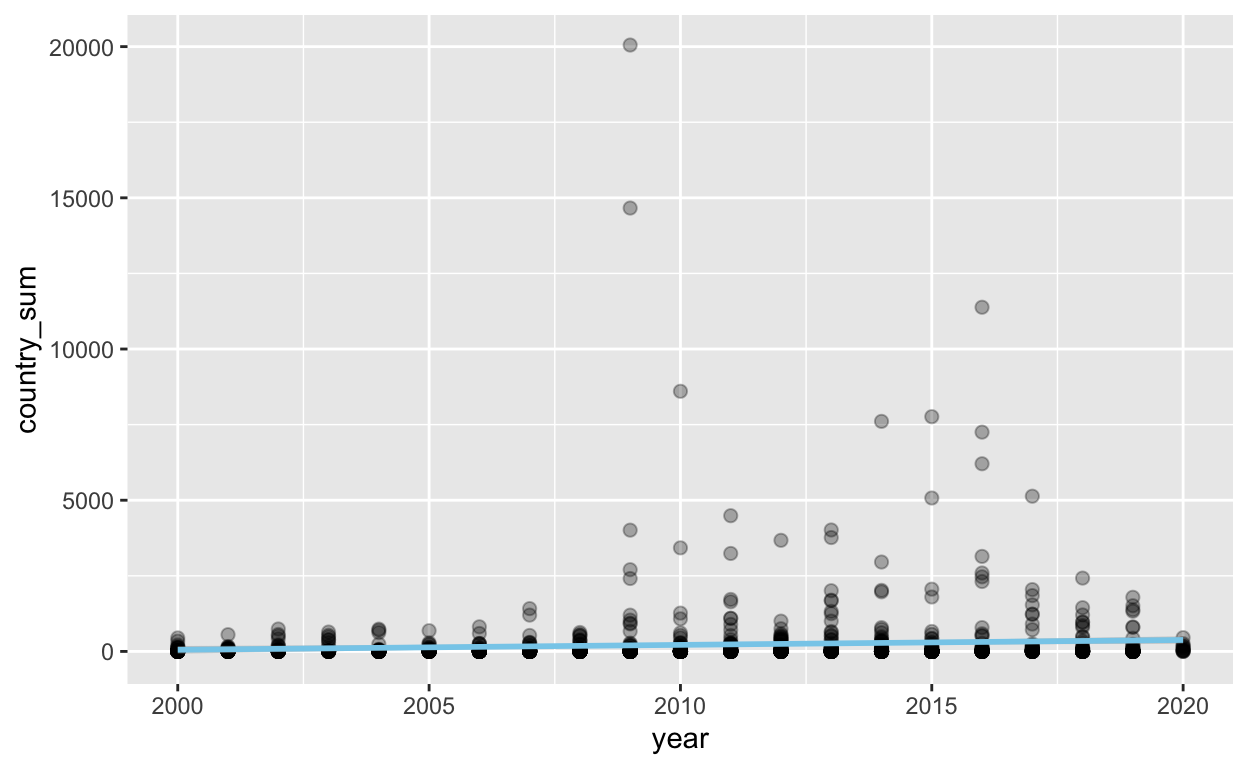
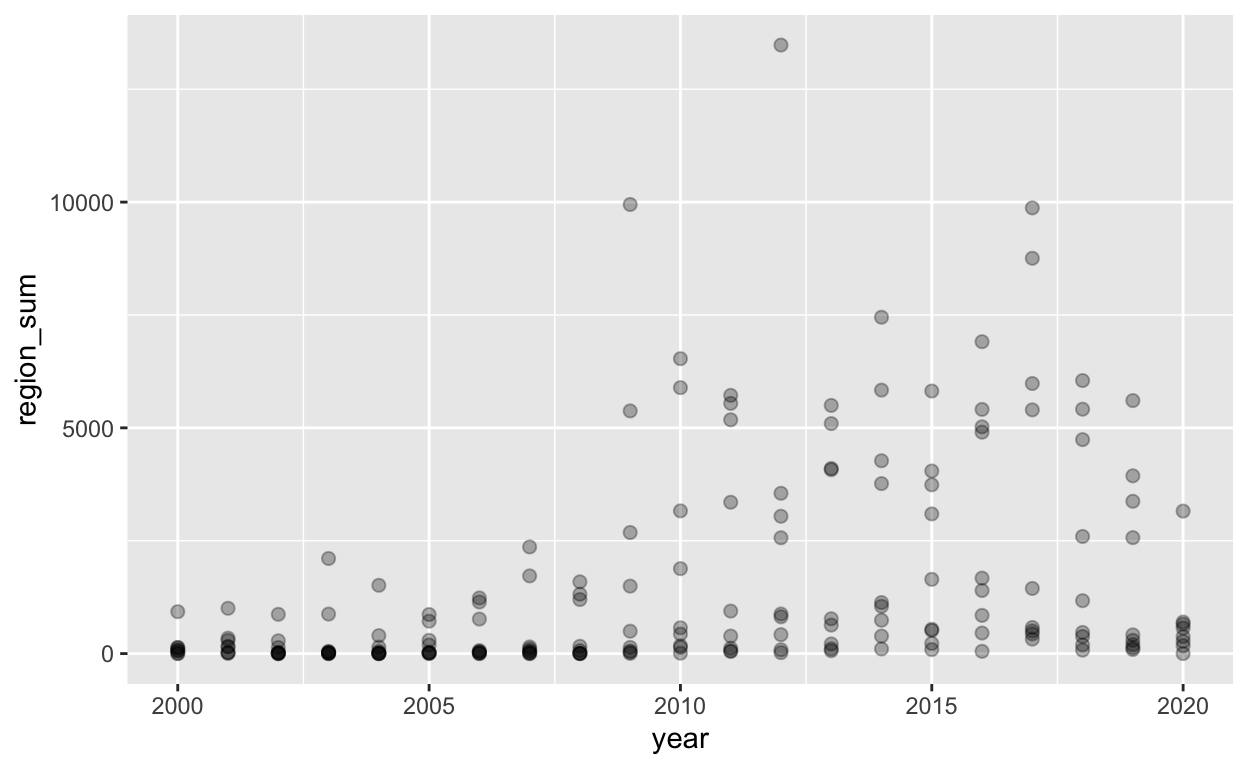
Made good progress but the plots are messing things up, need to figure out how to plot lm models

diff --git a/_posts/2021-11-23-detecting-trends-in-renewable-energy-investment/detecting-trends-in-renewable-energy-investment.html b/_posts/2021-11-23-detecting-trends-in-renewable-energy-investment/detecting-trends-in-renewable-energy-investment.html
@@ -116,7 +116,7 @@ code span.wa { color: #5e5e5e; font-style: italic; } /* Warning */
   <!--/radix_placeholder_rmarkdown_metadata-->
   
   <script type="text/json" id="radix-resource-manifest">
-  {"type":"character","attributes":{},"value":["data/IRENA_RE_Public_Investment_July2021.xlsx","detecting-trends-in-renewable-energy-investment_files/anchor-4.2.2/anchor.min.js","detecting-trends-in-renewable-energy-investment_files/bowser-1.9.3/bowser.min.js","detecting-trends-in-renewable-energy-investment_files/distill-2.2.21/template.v2.js","detecting-trends-in-renewable-energy-investment_files/figure-html5/unnamed-chunk-10-1.png","detecting-trends-in-renewable-energy-investment_files/figure-html5/unnamed-chunk-11-1.png","detecting-trends-in-renewable-energy-investment_files/figure-html5/unnamed-chunk-12-1.png","detecting-trends-in-renewable-energy-investment_files/figure-html5/unnamed-chunk-5-1.png","detecting-trends-in-renewable-energy-investment_files/header-attrs-2.10/header-attrs.js","detecting-trends-in-renewable-energy-investment_files/jquery-1.11.3/jquery.min.js","detecting-trends-in-renewable-energy-investment_files/popper-2.6.0/popper.min.js","detecting-trends-in-renewable-energy-investment_files/tippy-6.2.7/tippy-bundle.umd.min.js","detecting-trends-in-renewable-energy-investment_files/tippy-6.2.7/tippy-light-border.css","detecting-trends-in-renewable-energy-investment_files/tippy-6.2.7/tippy.css","detecting-trends-in-renewable-energy-investment_files/tippy-6.2.7/tippy.umd.min.js","detecting-trends-in-renewable-energy-investment_files/webcomponents-2.0.0/webcomponents.js"]}
+  {"type":"character","attributes":{},"value":["data/IRENA_RE_Public_Investment_July2021.xlsx","detecting-trends-in-renewable-energy-investment_files/anchor-4.2.2/anchor.min.js","detecting-trends-in-renewable-energy-investment_files/bowser-1.9.3/bowser.min.js","detecting-trends-in-renewable-energy-investment_files/distill-2.2.21/template.v2.js","detecting-trends-in-renewable-energy-investment_files/figure-html5/unnamed-chunk-10-1.png","detecting-trends-in-renewable-energy-investment_files/figure-html5/unnamed-chunk-11-1.png","detecting-trends-in-renewable-energy-investment_files/figure-html5/unnamed-chunk-12-1.png","detecting-trends-in-renewable-energy-investment_files/figure-html5/unnamed-chunk-13-1.png","detecting-trends-in-renewable-energy-investment_files/figure-html5/unnamed-chunk-5-1.png","detecting-trends-in-renewable-energy-investment_files/figure-html5/unnamed-chunk-8-1.png","detecting-trends-in-renewable-energy-investment_files/header-attrs-2.10/header-attrs.js","detecting-trends-in-renewable-energy-investment_files/jquery-1.11.3/jquery.min.js","detecting-trends-in-renewable-energy-investment_files/popper-2.6.0/popper.min.js","detecting-trends-in-renewable-energy-investment_files/tippy-6.2.7/tippy-bundle.umd.min.js","detecting-trends-in-renewable-energy-investment_files/tippy-6.2.7/tippy-light-border.css","detecting-trends-in-renewable-energy-investment_files/tippy-6.2.7/tippy.css","detecting-trends-in-renewable-energy-investment_files/tippy-6.2.7/tippy.umd.min.js","detecting-trends-in-renewable-energy-investment_files/webcomponents-2.0.0/webcomponents.js"]}
   </script>
   <!--radix_placeholder_navigation_in_header-->
   <!--/radix_placeholder_navigation_in_header-->
@@ -1523,32 +1523,35 @@ Residual standard error: 2167 on 184 degrees of freedom
 Multiple R-squared:  0.1341,    Adjusted R-squared:  0.1294 
 F-statistic:  28.5 on 1 and 184 DF,  p-value: 2.735e-07</code></pre>
 </div>
-<p>Using the <code>summary()</code> function, we can quickly get some insights from our model. From this output we are most concerned with the coefficient estimate of the year, which is 141.88 million USD. This tells us that, according to this model, with each passing year we are seeing a increase in renewable investment by 1.4188086^{8} USD by each country per year. Overall this is a positive trend for renewable investments year over year by each country.</p>
-<p>From the <code>summary()</code> function we are also able to get a p-value for the trend coefficient. The p-value is represented in the “Coefficients” section of the table under “Pr(&gt;|t|)”. The year coefficient has a p-value below <strong>0.001</strong> which gives us confidence in rejecting a null hypothesis that there is no relationship between investment sums across time with a confidence interval of 0.05. It should be noted that our R-squared value is low for this model <strong>(0.01)</strong> however that is not important for this analysis as we are not focused on predicting outcomes of investment with high precision, but rather the overall trend from the year coefficient and its’ associated p-value.</p>
+<p>Using the <code>summary()</code> function, we can quickly get some insights from our model. From this output we are most concerned with the coefficient estimate of the year, which is 141.88 million USD. This tells us that, according to this model, with each passing year we are seeing a increase in renewable investment by more than 141,000,000 USD across each region per year. Overall this is a positive trend for renewable investments year over year.</p>
+<p>From the <code>summary()</code> function we are also able to get a p-value for the trend coefficient. The p-value is represented in the “Coefficients” section of the table under “Pr(&gt;|t|)”. The year coefficient has a p-value below 0.001 which gives us confidence in rejecting a null hypothesis that there is no relationship between investment sums across time with a confidence interval of 0.001. It should be noted that our R-squared value for this model is 0.13 however that is not important for this analysis as we are not focused on predicting outcomes of investment with high precision, but rather the overall trend from the year coefficient and its’ associated p-value.</p>
 <p>Now that we can see that there is a positive trend in renewable investments, lets compare that to non-renewable investment.</p>
 <h3 id="simple-non-renewable-investment-model">Simple Non-renewable Investment Model</h3>
 <div class="layout-chunk" data-layout="l-body">
 <pre><code>
 Call:
-lm(formula = country_sum ~ year, data = non_renewable_fin)
+lm(formula = region_sum ~ year, data = region_non_renewable_fin)
 
 Residuals:
     Min      1Q  Median      3Q     Max 
- -378.6  -259.6  -182.9   -76.5 19852.6 
+-2660.1 -1457.2  -796.8   -24.5 18677.7 
 
 Coefficients:
-             Estimate Std. Error t value Pr(&gt;|t|)   
-(Intercept) -32474.98   11136.45  -2.916  0.00361 **
-year            16.26       5.54   2.936  0.00339 **
+              Estimate Std. Error t value Pr(&gt;|t|)   
+(Intercept) -218612.31   77728.01  -2.813  0.00549 **
+year            109.54      38.67   2.833  0.00518 **
 ---
 Signif. codes:  0 &#39;***&#39; 0.001 &#39;**&#39; 0.01 &#39;*&#39; 0.05 &#39;.&#39; 0.1 &#39; &#39; 1
 
-Residual standard error: 1027 on 1213 degrees of freedom
-Multiple R-squared:  0.007056,  Adjusted R-squared:  0.006237 
-F-statistic: 8.619 on 1 and 1213 DF,  p-value: 0.003389</code></pre>
+Residual standard error: 2974 on 170 degrees of freedom
+Multiple R-squared:  0.04507,   Adjusted R-squared:  0.03945 
+F-statistic: 8.023 on 1 and 170 DF,  p-value: 0.005176</code></pre>
 </div>
-<p>From the <code>summary()</code> of this model we can see that by country there is also a positive trend of non-renewable investment by country…</p>
-<p><strong>Will this be necessary? I think comparing regional invesment will be more interesting so I will do that first</strong></p>
+<p>From the <code>summary()</code> of this model we can see that by country there is also a positive trend of non-renewable investment across regions. According to this model there is an increase in non-renewable investments by 109.54 million USD. With a p-value of 0.005 can confidently reject a null hypothesis of there being no relationship between non-renewable investment over time. According to these two simple models, there is a larger increase in renewable investments year over year compared to non-renewables. Below is a plot that compares renewable and non-renewable investments over time, along with their respective models.</p>
+<div class="layout-chunk" data-layout="l-body">
+<p><img src="detecting-trends-in-renewable-energy-investment_files/figure-html5/unnamed-chunk-8-1.png" width="624" /></p>
+</div>
+<p>As this data is only from the years 2000-2020 these investment trends do not reflect the historical investments in non-renewable energy sources. As this simple regression only looks at the trend over time we will now see how these investment trends compare across regions. In the original model outlier regional trends could be affecting our simple investment trend.</p>
 <h3 id="regional-renewable-investment">Regional Renewable Investment</h3>
 <div class="layout-chunk" data-layout="l-body">
 <pre><code>
@@ -1634,10 +1637,10 @@ F-statistic: 6.233 on 9 and 162 DF,  p-value: 1.538e-07</code></pre>
 </div>
 <h3 id="plots">Plots</h3>
 <div class="layout-chunk" data-layout="l-body">
-<p><img src="detecting-trends-in-renewable-energy-investment_files/figure-html5/unnamed-chunk-11-1.png" width="624" /></p>
+<p><img src="detecting-trends-in-renewable-energy-investment_files/figure-html5/unnamed-chunk-12-1.png" width="624" /></p>
 </div>
 <div class="layout-chunk" data-layout="l-body">
-<p><img src="detecting-trends-in-renewable-energy-investment_files/figure-html5/unnamed-chunk-12-1.png" width="624" /></p>
+<p><img src="detecting-trends-in-renewable-energy-investment_files/figure-html5/unnamed-chunk-13-1.png" width="624" /></p>
 </div>
 <h2 id="next-steps">Next Steps</h2>
 <div class="sourceCode" id="cb5"><pre class="sourceCode r distill-force-highlighting-css"><code class="sourceCode r"></code></pre></div>
